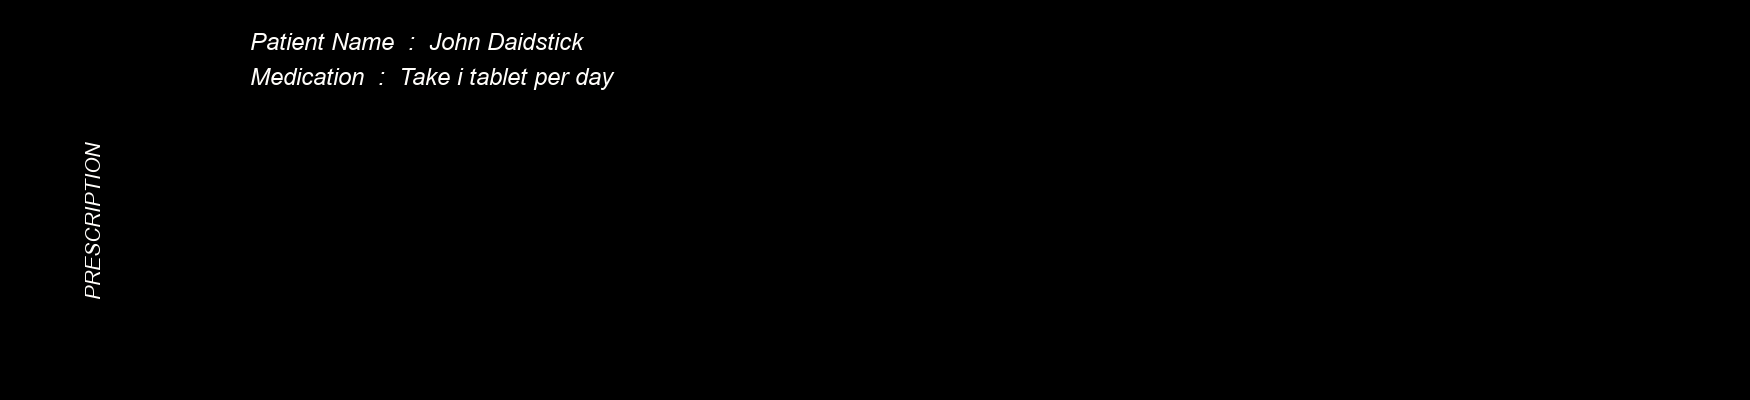
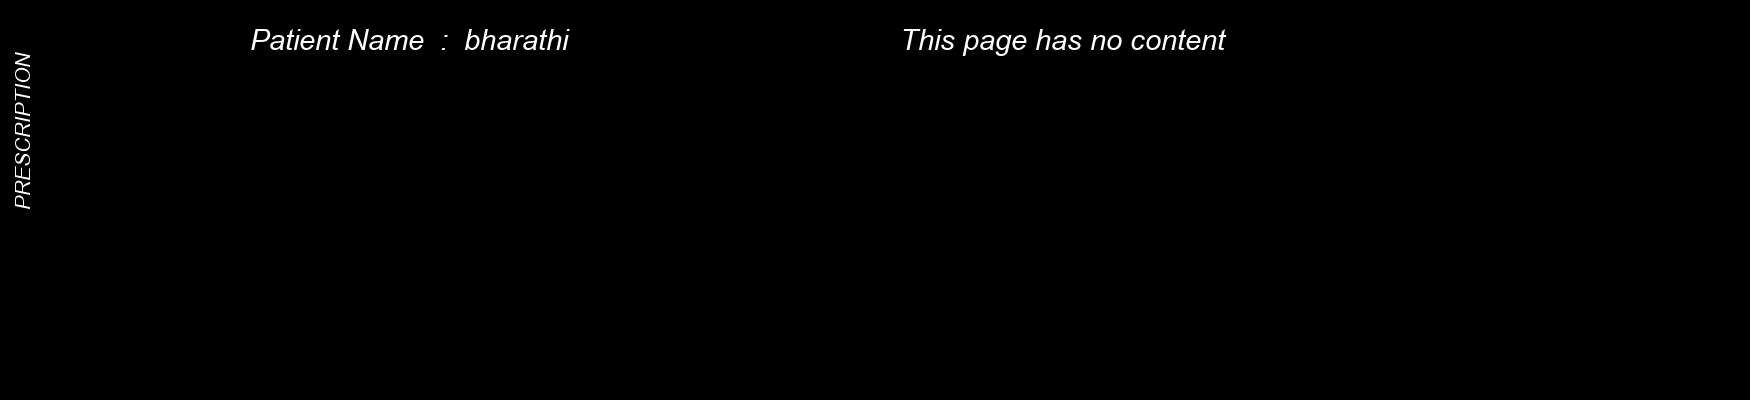
Modified functions

diff --git a/Prescription Webpage/formatImage.php b/Prescription Webpage/formatImage.php
@@ -51,14 +51,14 @@ class phpTextToImage
         $font = 'font/' . $font;
         $this->imageArray[0] = imagecreatetruecolor($imgWidth, $imgHeight);
         if ($backgroundColor == '#000000') {
-            $backgroundColor = $this->hexToRGB("#fffdfa");
-        } else {
             $backgroundColor = $this->hexToRGB("#000000");
+        } else {
+            $backgroundColor = $this->hexToRGB("#fffdfa");
         }
         if ($textColor == '#fffdfa') {
-            $textColor = $this->hexToRGB("#000000");
-        } else {
             $textColor = $this->hexToRGB("#fffdfa");
+        } else {
+            $textColor = $this->hexToRGB("#000000");
         }
         $textColor = imagecolorallocate($this->imageArray[0], $textColor['r'], $textColor['g'], $textColor['b']);
         $backgroundColor = imagecolorallocate($this->imageArray[0], $backgroundColor['r'], $backgroundColor['g'], $backgroundColor['b']);
@@ -86,7 +86,7 @@ class phpTextToImage
         $num = $lines;
         $angle = 0;
         $heading = "PRESCRIPTION";
-        imagettftext($this->imageArray[0], 16, 90, 100, 300, $textColor, $font, $heading);
+        imagettftext($this->imageArray[0], 16, 90, 30, 210, $textColor, $font, $heading);
         $pr = 1;
         $x = 250;
         $y = 50;
@@ -117,6 +117,16 @@ class phpTextToImage
                 }
             }
         }
+
+        if ($x == 250) {
+            $x = 900;
+            $y = 50;
+            $var = $imageObject->measureWidth("This page has no content", $fontSize, $font);
+            $var = str_replace("\\n", "", $var);
+            imagettftext($this->imageArray[$this->imageNumber], $fontSize, $angle, $x, $y, $textColor, $font, $var);
+        }
+
+
         if ($count == 0) {
             $this->imageNumber--;
         }
@@ -198,39 +208,26 @@ $var = explode(",", $_GET['var']);
 
 echo "<br> $var[0]  $var[1] $var[2] <br>";
 
+$arrFiles = scandir("image/");
+
+foreach ($arrFiles as $af) {
+    if (str_contains($af, ".png")) {
+        unlink("image/" . $af);
+    }
+}
 if ($var[0] == 1) {
 
     $temp = $textColor;
     $textColor = $backgroundColor;
     $backgroundColor = $temp;
-
-    $arrFiles = scandir("image/");
-
-    foreach ($arrFiles as $af) {
-        if (str_contains($af, ".png")) {
-            unlink("image/" . $af);
-        }
-    }
 } else if ($var[1] != 0) {
 
     $font = $var[1];
     echo "<br> font - $font<br>";
-    $arrFiles = scandir("image/");
-    foreach ($arrFiles as $af) {
-        if (str_contains($af, ".png")) {
-            unlink("image/" . $af);
-        }
-    }
 } else if ($var[2] != 0) {
 
     $fontSize = $var[2];
     echo "<br> fontSize - $fontSize<br>";
-    $arrFiles = scandir("image/");
-    foreach ($arrFiles as $af) {
-        if (str_contains($af, ".png")) {
-            unlink("image/" . $af);
-        }
-    }
 }
 
 echo "<br>$font $fontSize $textColor $backgroundColor $count";

diff --git a/Prescription Webpage/index.php b/Prescription Webpage/index.php
@@ -338,7 +338,6 @@ if (empty($_SESSION["resultantArray"])) {
     </div>
 
     <div class="parameters">
-
         <div class="getForm" id="getForm">
             <form method="GET" action="createImageFromTextGet.php" id="prsfrm">
                 <br><br>
@@ -503,6 +502,7 @@ if (empty($_SESSION["resultantArray"])) {
                     <td>
                         <label for=\"font\">Font:</label>
                         <select name=\"font\" id=\"font\" onchange = \"fontStyle()\">
+                            <option value=\"\">-- Choose Font --</option>
                             <option value=\"geoAi.ttf\">GeoAI</option>
                             <option value=\"timesnewroman.ttf\">Times New Roman</option>
                             <option value=\"GothamBold.ttf\">Gotham Bold</option>
@@ -517,6 +517,7 @@ if (empty($_SESSION["resultantArray"])) {
                     <td>
                         <label for=\"fontSize\">Font Size:</label>
                         <select name=\"fontSize\" id=\"fontSize\" onchange = \"fontSize()\">
+                            <option value=\"\">-- Choose Font Size --</option>
                             <option value=\"14\">12</option>
                             <option value=\"16\">14</option>
                             <option value=\"18\">16</option>

diff --git a/Prescription Webpage/createImageFromText.php b/Prescription Webpage/createImageFromText.php
@@ -86,7 +86,7 @@ class phpTextToImage
         $num = $lines;
         $angle = 0;
         $heading = "PRESCRIPTION";
-        imagettftext($this->imageArray[0], 16, 90, 100, 300, $textColor, $font, $heading);
+        imagettftext($this->imageArray[0], 16, 90, 120, 300, $textColor, $font, $heading);
         $pr = 1;
         $x = 250;
         $y = 50;
@@ -117,6 +117,16 @@ class phpTextToImage
                 }
             }
         }
+
+        if ($x == 250) {
+
+            $x = 900;
+            $y = 50;
+            $var = $imageObject->measureWidth("This page has no content", $fontSize, $font);
+            $var = str_replace("\\n", "", $var);
+            imagettftext($this->imageArray[$this->imageNumber], $fontSize, $angle, $x, $y, $textColor, $font, $var);
+        }
+
         if ($count == 0) {
             $this->imageNumber--;
         }

diff --git a/Prescription Webpage/createImageFromTextGet.php b/Prescription Webpage/createImageFromTextGet.php
@@ -117,6 +117,16 @@ class phpTextToImage
                 }
             }
         }
+
+        if ($x == 250) {
+
+            $x = 900;
+            $y = 50;
+            $var = $imageObject->measureWidth("This page has no content", $fontSize, $font);
+            $var = str_replace("\\n", "", $var);
+            imagettftext($this->imageArray[$this->imageNumber], $fontSize, $angle, $x, $y, $textColor, $font, $var);
+        }
+
         if ($count == 0) {
             $this->imageNumber--;
         }

diff --git a/Prescription Webpage/printImage.php b/Prescription Webpage/printImage.php
@@ -99,19 +99,3 @@ foreach ($printerImageFiles as $pf) {
 $img->generateZPLCode();
 
 // header("location:index.php");
-
-
-
-
-
-
-
-
-
-
-
-
-
-
-
-
